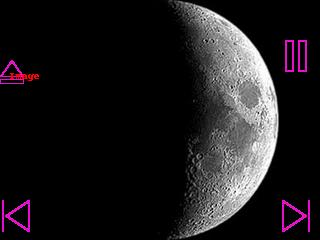
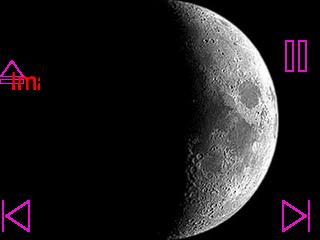
Updates to display date, time, and timer.

Changed region(s): [[0.0312, 0.2917, 0.125, 0.3792]]

diff --git a/src/display.py b/src/display.py
@@ -1,14 +1,37 @@
-from abc import ABC, abstractmethod
 from __future__ import annotations
+
+import time
+import datetime
+from abc import ABC, abstractmethod
+import threading
+import queue
+
+try:
+    from PIL import Image, ImageDraw, ImageFont
+except ImportError:
+    print("""This example requires PIL/Pillow, try:
+
+sudo apt install python3-pil
+
+""")
 
 from displayhatmini import DisplayHATMini
 import test
 
 
-class Display(ABC):
+class CurrentData:
+    def __init__(self):
+        self.current_time = None
+        self.remaining_timer_s = None
+
+
+# Abstract base class for displaying the clock via various displays as desired. This provides a way to have multiple
+# displays such as on the screen as well as a small LCD.
+class Display(ABC, threading.Thread):
 
     # Width and length is desired display size or desired window size depending on the type of display.
-    def __init__(self, width, height, toggle_pause_function, back_function, next_function, pins = None):
+    def __init__(self, width, height, toggle_pause_function, back_function, next_function, pins=None):
+        super().__init__()
         self.width = width
         self.height = height
         self.current_time = None
@@ -21,6 +44,9 @@ class Display(ABC):
         self.next_function = next_function
         self.current_time = None
         self.pomodoro_time_state = None
+        self.current_data_queue = queue.Queue()
+        self.current_data = CurrentData()
+
 
     # Change modes
     @abstractmethod
@@ -34,9 +60,15 @@ class Display(ABC):
             self._modes.append(self._curr_mode)
             self._curr_mode = self._modes.pop(0)
 
-    def update_data(curr_date_time, pomodoro_time_state):
-            self.current_time = curr_date_time
-            self.pomodoro_time_state = pomodoro_time_state
+    def run(self):
+        while True:
+            while not self.current_data_queue.empty():
+                self.current_data = self.current_data_queue.get_nowait()
+
+            if self.current_data.current_time is not None:
+                self.update_display()
+
+            time.sleep(0.5)
 
     @abstractmethod
     def update_display(self):
@@ -46,35 +78,84 @@ class Display(ABC):
 # Class for LCD - in this case the DisplayHatMini
 class LcdDisplay(Display):
     def __init__(self, toggle_pause_function, back_function, next_function):
+        self.buffer = Image.new("RGB", (DisplayHATMini.WIDTH, DisplayHATMini.HEIGHT,), "BLACK")
 
-        displayhatmini = DisplayHATMini()
+        self.fonts = {'main': ImageFont.truetype('/usr/share/fonts/truetype/freefont/FreeSans.ttf', 75),
+                      'sub':ImageFont.truetype('/usr/share/fonts/truetype/freefont/FreeSans.ttf', 25)}
 
-        pins = [displayhatmini.BUTTON_A, displayhatmini.BUTTON_B,displayhatmini.BUTTON_X,displayhatmini.BUTTON_Y]
+        self.display = DisplayHATMini(self.buffer, backlight_pwm=True)
+        self.display.set_led(0.05, 0.05, 0.05)
 
-        super.__init__(displayhatmini.WIDTH, displayhatmini.HEIGHT, toggle_pause_function, back_function,
-                       next_function, pins)
+        pins = [self.display.BUTTON_A, self.display.BUTTON_B, self.display.BUTTON_X, self.display.BUTTON_Y]
+
+        super().__init__(self.display.WIDTH, self.display.HEIGHT, toggle_pause_function,
+                         back_function, next_function, pins)
 
         # Set the current mode
         self.change_mode()
 
         # Mapping to mode to buttons and functions.
-        self.function_dict = {'clock':{displayhatmini.BUTTON_A:self.change_mode(),
-                                       displayhatmini.BUTTON_B:self.toggle_pause_function,
-                                       displayhatmini.BUTTON_X: self.back_function,
-                                       displayhatmini.BUTTON_Y: self.next_function},
-                              'pomodoro':{displayhatmini.BUTTON_A:self.change_mode(),
-                                          displayhatmini.BUTTON_B:self.toggle_pause_function,
-                                          displayhatmini.BUTTON_X: self.back_function,
-                                          displayhatmini.BUTTON_Y: self.next_function}}
+        self.function_dict = {'clock': {self.display.BUTTON_A: self.change_mode(),
+                                        self.display.BUTTON_B: self.toggle_pause_function,
+                                        self.display.BUTTON_X: self.back_function,
+                                        self.display.BUTTON_Y: self.next_function},
+                              'pomodoro': {self.display.BUTTON_A: self.change_mode(),
+                                           self.display.BUTTON_B: self.toggle_pause_function,
+                                           self.display.BUTTON_X: self.back_function,
+                                           self.display.BUTTON_Y: self.next_function}}
 
     # Rotate through the modes.
     def change_mode(self):
         super().change_mode()
 
+    # Draw the icons on the screen according to the mode
+    def draw_icons(self, buffer):
+        if self._curr_mode == 'clock':
+            buffer.paste(Image.open("icons/eject.png"), (0, 60), 0)
+            buffer.paste(Image.open("icons/pause.png"), (280, 40), 0)
+            buffer.paste(Image.open("icons/back-button.png"), (0, 200), 0)
+            buffer.paste(Image.open("icons/next-button.png"), (280, 200), 0)
+
     # Update the display to show the latest state.
     def update_display(self):
-        pass
+        print(f"{self.current_data.current_time}, {self.current_data.remaining_timer_s}")
+        date = self.current_data.current_time.strftime("%d-%m-%Y")
+        time = self.current_data.current_time.strftime("%H:%M:S")
+        pomodoro_str = (f"{int(self.current_data.remaining_timer_s/60):0>2}:"
+                        f"{abs(self.current_data.remaining_timer_s)%60:0>2}")
+
+        with Image.open("buffer11.jpg") as img:
+            self.buffer.paste(img, (int((DisplayHATMini.WIDTH - DisplayHATMini.HEIGHT)/2), 0))
+            draw = ImageDraw.Draw(self.buffer)
+            self.draw_icons(self.buffer)
+            draw.text((5, 0), f"{date}", font=self.fonts['sub'], fill=(255, 0, 0))
+            draw.text((200, 0), f"{time}", font=self.fonts['sub'], fill=(255, 0, 0))
+            draw.text((100, 100), f"{pomodoro_str}", font=self.fonts['main'], fill=(255, 0, 0))
+            self.display.display()
 
 
+if __name__ == '__main__':
+    def toggle_pause_fnc():
+        print("toggle pause function test")
 
+    def back_fnc():
+        print("back function test")
 
+    def next_fnc():
+        print("next function test")
+
+    print("here before run")
+    lcd_display = LcdDisplay(toggle_pause_fnc, back_fnc, next_fnc)
+    lcd_display.setDaemon(True)
+    lcd_display.start()
+    print("here after run")
+    current_data = CurrentData()
+
+    current_data.remaining_timer_s = 60
+    while True:
+        current_data.current_time = datetime.datetime.now()
+        lcd_display.current_data_queue.put_nowait(current_data)
+
+        # print(f"Queue {lcd_display.current_data_queue.get_nowait()}")
+        current_data.remaining_timer_s -= 1
+        time.sleep(.1)
